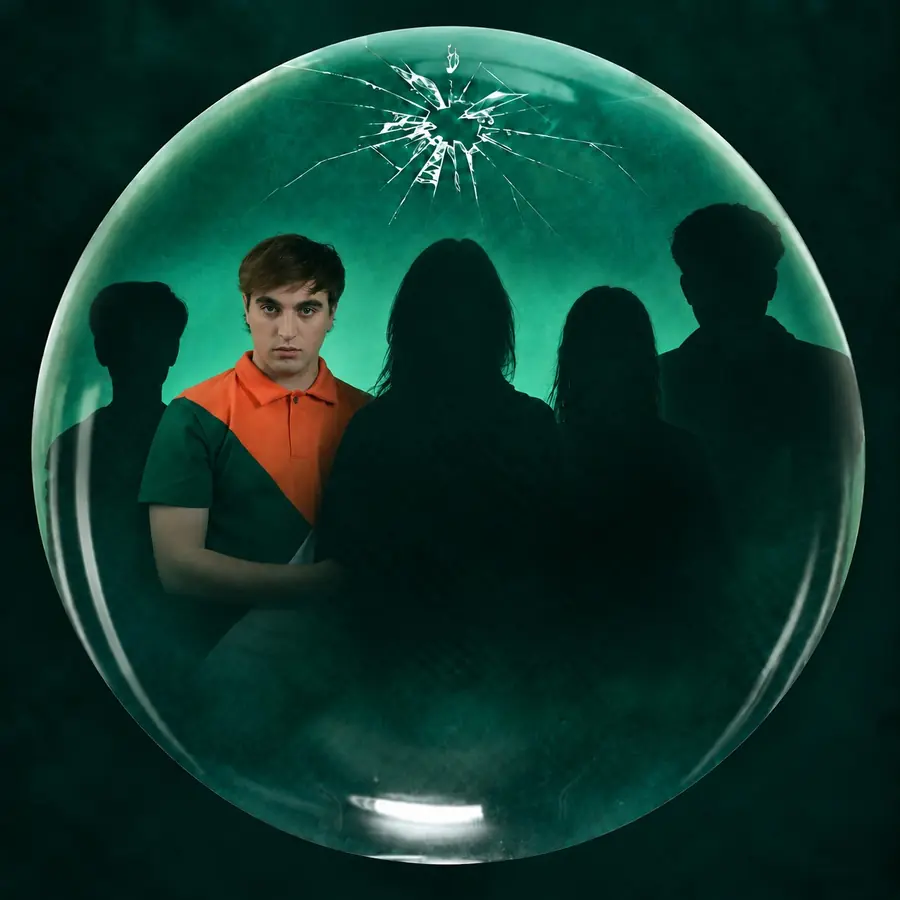
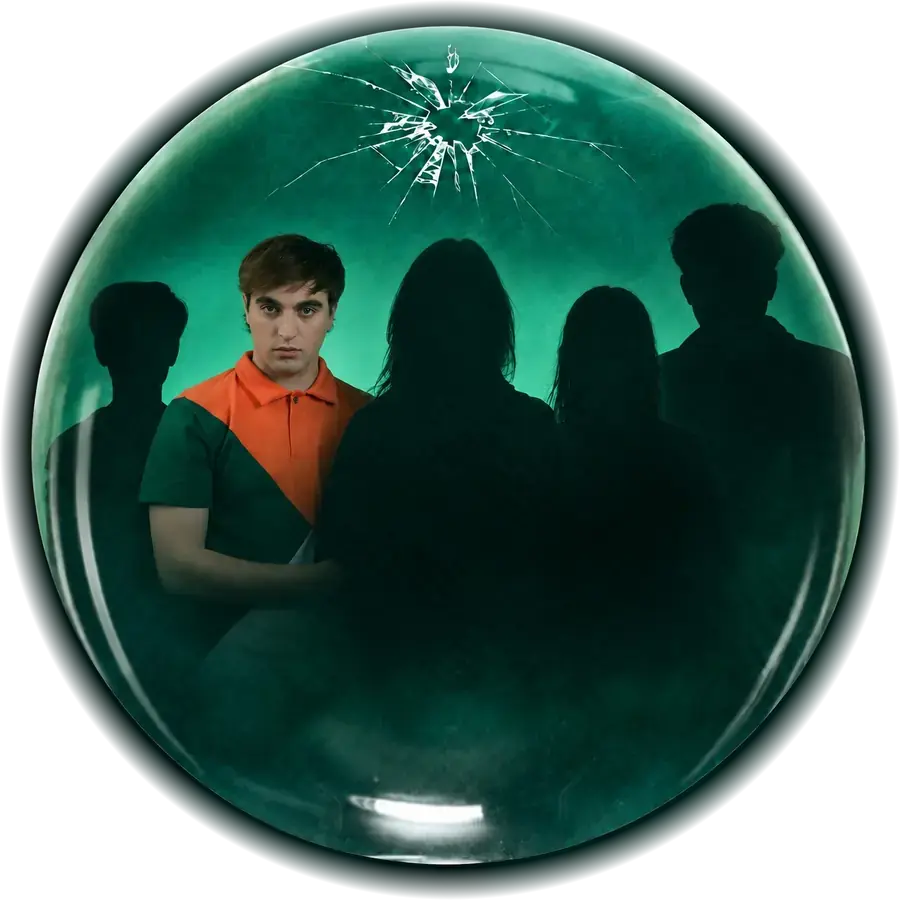
v1.5

diff --git a/estilos.css b/estilos.css
@@ -294,51 +294,60 @@ html:not(.js) .cel .tachado { stroke-dashoffset: 0; }
 .premio p { margin: 0; font-size: 15px; color: var(--tenue); line-height: 1.5; }
 .duracion { margin-top: 18px; font-size: 15px; color: var(--tenue); }
 
-/* ---------- 03 · Elenco ---------- */
-.elenco { display: grid; gap: 54px; }
-.actor { display: grid; grid-template-columns: 46% 1fr; gap: 18px; align-items: end; }
-.actor.der { grid-template-columns: 1fr 46%; }
-.actor.der .marco { order: 2; }
-.actor.der .info { text-align: right; }
-.actor.der .personaje { transform-origin: right bottom; }
-.marco { position: relative; }
-.marco::after {
-  content: ""; position: absolute; inset: 0; translate: 9px 9px; z-index: -1;
-  border: 1px solid var(--coral); opacity: .55;
+/* ---------- Elenco y banda: el foquito ----------
+   El foco cuelga arriba (pegado mientras bajás por la sección) y oscila hacia el que toca.
+   Solo se mueve con rotate (transform): no se repinta. */
+.escena { position: relative; margin: 0 calc(var(--gutter) * -1); --d: min(56vw, 32svh, 290px); --cable: 8svh; }
+.colgante-pista { position: absolute; inset: 0; z-index: 2; pointer-events: none; }
+.colgante { position: sticky; top: 0; height: 100vh; height: 100svh; overflow: hidden; }
+.pendulo { position: absolute; left: 50%; top: -2px; width: 0; height: 0; transform-origin: 0 0; will-change: rotate; }
+.cable { position: absolute; left: -1px; top: 0; width: 2px; height: var(--cable); background: linear-gradient(#0b0f0d, #46564d); }
+.casquillo { position: absolute; left: calc(var(--d) * -.11); top: calc(var(--cable) - 2px); width: calc(var(--d) * .22); height: auto; }
+.foco { position: absolute; left: calc(var(--d) / -2); top: calc(var(--cable) + var(--d) * .2); width: var(--d); height: var(--d); isolation: isolate; }
+/* el borde redondo ya viene en la imagen (alfa): una máscara CSS en algo que gira se recalcula en cada cuadro */
+.foco .capa {
+  position: absolute; inset: 0; width: 100%; height: 100%; opacity: 0; transition: opacity .5s ease;
+  -webkit-touch-callout: none; -webkit-user-select: none; user-select: none; pointer-events: none;
 }
-.actor:nth-child(2n) .marco::after { border-color: var(--teal-claro); translate: -9px 9px; }
-.foto { position: relative; aspect-ratio: 4 / 5; overflow: hidden; background: var(--superficie-2); }
-.foto img { position: absolute; left: 0; top: -8%; width: 100%; height: 116%; object-fit: cover; object-position: 50% 20%; translate: 0 var(--py, 0%); }
-.sin-foto { position: absolute; inset: 0; display: grid; place-items: center; overflow: hidden; }
-.sin-foto .ini { font: italic 800 clamp(80px, 26vw, 140px)/1 var(--display); color: rgba(244, 238, 227, .92); rotate: -8deg; }
-.sin-foto img.fig { position: absolute; right: 12%; bottom: 8%; left: auto; top: auto; width: auto; height: 34%; opacity: .32; translate: none; }
-.actor:nth-child(3n+1) .sin-foto { background: linear-gradient(165deg, #ff8f79, #a8402e); }
-.actor:nth-child(3n+2) .sin-foto { background: linear-gradient(165deg, #0aa38d, #0b3a27); }
-.actor:nth-child(3n+3) .sin-foto { background: linear-gradient(165deg, #d0a65a, #5f4520); }
-.info { padding-bottom: 4px; min-width: 0; }
-.info .n { font: 600 13px/1 var(--display); letter-spacing: .2em; color: var(--teal-claro); }
-.personaje {
-  margin: 10px 0 12px; padding: .08em .14em .02em 0; overflow: hidden;
-  font: italic 800 clamp(40px, 12.6vw, 66px)/.86 var(--display); text-transform: uppercase; color: var(--coral);
-  rotate: -8deg; transform-origin: left bottom; overflow-wrap: anywhere;
+.foco .capa.on { opacity: 1; }
+/* las que no se ven, fuera del dibujo del todo (cuando termina el fundido) */
+.foco .capa:not(.on) { visibility: hidden; transition: opacity .5s ease, visibility 0s linear .5s; }
+.foco .halo { position: absolute; inset: -20%; z-index: -1; background: url("img/luz/halo.png") center / 100% 100% no-repeat; opacity: 1; transition: opacity .35s ease; }
+.foco .cono { position: absolute; left: 50%; top: 88%; width: 150%; height: 150%; translate: -50% 0; z-index: -1; background: url("img/luz/cono.png") center top / 100% 100% no-repeat; opacity: .9; transition: opacity .35s ease; }
+.foco .apagon { position: absolute; inset: 3%; border-radius: 50%; background: rgba(4, 8, 6, .72); opacity: 0; transition: opacity .2s ease; pointer-events: none; }
+.escena.oscuro .apagon { opacity: 1; }
+.escena.oscuro .halo, .escena.oscuro .cono { opacity: 0; }
+.foco .apagon.parpadea { animation: parpadeo .8s linear; }
+@keyframes parpadeo { 0% { opacity: 1; } 12% { opacity: 0; } 22% { opacity: .75; } 32% { opacity: 0; } 46% { opacity: .4; } 58%, 100% { opacity: 0; } }
+.foco .toque {
+  position: absolute; translate: -50% -50%; border: 0; padding: 0; border-radius: 45% 45% 40% 40%;
+  background: transparent; cursor: pointer; pointer-events: auto; touch-action: manipulation;
 }
-.actor.der .personaje { padding: .08em 0 .02em .14em; }
-.personaje span { display: inline-block; }
-.info .nombre { font: 600 18px/1.25 var(--cuerpo); }
-.info .ig { display: inline-block; margin-top: 6px; font-size: 14px; color: var(--tenue); text-decoration: none; }
-.js .actor .foto { clip-path: inset(100% 0 0 0); transition: clip-path 1.25s var(--curva); }
-.js .actor .foto > * { scale: 1.25; transition: scale 1.6s var(--curva); }
-.js .actor .marco::after { opacity: 0; transition: opacity 1s ease .5s; }
-.js .actor .info > * { opacity: 0; transform: translateY(18px); transition: opacity .8s var(--curva), transform .9s var(--curva); }
-.js .actor .info > .personaje { opacity: 1; transform: none; }
-.js .actor .personaje span { transform: translateY(110%); transition: transform 1s var(--curva) .2s; }
-.js .actor .info > :nth-child(3) { transition-delay: .35s; }
-.js .actor .info > :nth-child(4) { transition-delay: .45s; }
-.js .actor.visto .foto { clip-path: inset(0 0 0 0); }
-.js .actor.visto .foto > * { scale: 1; }
-.js .actor.visto .marco::after { opacity: .55; }
-.js .actor.visto .info > * { opacity: 1; transform: none; }
-.js .actor.visto .personaje span { transform: none; }
+.foco .toque:active { background: rgba(255, 230, 170, .12); }
+
+.entradas { position: relative; z-index: 1; padding: 0 var(--gutter); }
+.entrada { min-height: 62vh; min-height: 62svh; display: flex; flex-direction: column; justify-content: flex-end; padding-bottom: 6svh; opacity: .22; transition: opacity .6s ease; cursor: pointer; }
+.entrada.encendida { opacity: 1; cursor: auto; }
+.entrada.pasada { opacity: 0; }
+.entrada.intro { min-height: 92vh; min-height: 92svh; align-items: center; text-align: center; }
+.entrada.izq { align-items: flex-start; text-align: left; padding-right: 10%; }
+.entrada.der { align-items: flex-end; text-align: right; padding-left: 10%; }
+.entradas .cola { height: 30vh; height: 30svh; }
+.pregunta { margin: 0; font: italic 800 clamp(30px, 9vw, 44px)/1 var(--display); text-transform: uppercase; color: #dca56c; rotate: -4deg; }
+.pista-foco { margin: 14px 0 0; font: 600 12px/1 var(--display); letter-spacing: .24em; text-transform: uppercase; color: var(--tenue); }
+.papel { margin: 0 0 12px; font: italic 800 clamp(30px, 9vw, 44px)/.9 var(--display); text-transform: uppercase; color: var(--coral); rotate: -6deg; }
+.entrada.der .papel { transform-origin: right bottom; }
+.pill {
+  display: inline-block; margin: 0; padding: 10px 18px 8px; border-radius: 999px; background: #2bd394; color: #14211b;
+  font: 800 clamp(22px, 6.8vw, 30px)/1 var(--display); text-transform: uppercase; letter-spacing: .02em;
+  box-shadow: 0 10px 24px rgba(0, 0, 0, .35);
+}
+.pill.par { background: #dca56c; }
+.entrada .bio { margin: 14px 0 0; max-width: 34em; color: #cfd8d2; font-size: 15.5px; line-height: 1.55; display: -webkit-box; -webkit-line-clamp: 4; -webkit-box-orient: vertical; overflow: hidden; }
+.entrada.abierta .bio { display: block; -webkit-line-clamp: unset; }
+.entrada .leer { margin-top: 2px; padding: 14px 0; min-height: 44px; border: 0; background: none; cursor: pointer; color: var(--teal-claro); font: 600 14px/1 var(--display); letter-spacing: .14em; text-transform: uppercase; }
+.js .entrada .pill, .js .entrada .papel { transition: transform .7s var(--curva), opacity .5s ease; }
+.js .entrada:not(.encendida) .pill { transform: translateY(8px) scale(.96); }
 
 /* ---------- Canciones ---------- */
 .canciones { list-style: none; margin: 0; padding: 0; counter-reset: c; }
@@ -510,12 +519,6 @@ html:not(.js) .cel .tachado { stroke-dashoffset: 0; }
 /* ---------- Pantallas ---------- */
 @media (max-width: 340px) {
   body { font-size: 16px; }
-  .actor, .actor.der { grid-template-columns: 1fr; }
-  .actor.der .marco { order: 0; }
-  .actor.der .info { text-align: left; }
-  .actor.der .personaje { transform-origin: left bottom; padding: .08em .14em .02em 0; }
-  .marco { width: 78%; }
-  .actor.der .marco { margin-left: auto; }
   .premio { grid-template-columns: 1fr; justify-items: start; }
   .dock-boton { gap: 8px; }
 }
@@ -548,11 +551,6 @@ html:not(.js) .cel .tachado { stroke-dashoffset: 0; }
   .js [data-reveal="lineas"] .l > span { transform: none; opacity: 0; transition: opacity 1s ease calc(var(--i, 0) * 120ms); }
   .js [data-reveal="lineas"].visto .l > span { opacity: 1; }
   .js [data-reveal="sello"] { transform: none; }
-  .js .actor .foto { clip-path: none; opacity: 0; transition: opacity 1s ease; }
-  .js .actor.visto .foto { opacity: 1; }
-  .js .actor .foto > * { scale: none; }
-  .js .actor .info > * { transform: none; }
-  .js .actor .personaje span { transform: none; }
   .js .galeria button { translate: none; }
   .js .foto-obra img { clip-path: none; scale: none; opacity: 0; transition: opacity 1s ease; }
   .js .foto-obra.visto img { opacity: 1; }
@@ -568,4 +566,6 @@ html:not(.js) .cel .tachado { stroke-dashoffset: 0; }
   .menu-lista a { transform: none; }
   .visor[open] .visor-pista { animation: none; }
   .dock-nombre.cambia { animation: none; }
+  .foco .apagon.parpadea { animation: none; }
+  .js .entrada:not(.encendida) .pill { transform: none; }
 }

diff --git a/programa.js b/programa.js
@@ -2,7 +2,7 @@
 // La versión se publica con herramientas/publicar.js, que la copia a los ?v= de index.html.
 (function () {
   "use strict";
-  const VERSION = "1.4";
+  const VERSION = "1.5";
   const D = window.MEMC;
   const $ = (s, el = document) => el.querySelector(s);
   const $$ = (s, el = document) => [...el.querySelectorAll(s)];
@@ -68,34 +68,55 @@
     `, cintas("a"));
   }
 
-  // 03 · Elenco
-  {
-    const elenco = (D.elenco || []).filter((p) => p.nombre || borrador);
-    if (elenco.length) {
-      const ig = (u) => {
-        if (!u) return "";
-        const h = u.replace(/^@/, "").replace(/^https?:\/\/(www\.)?instagram\.com\//, "").replace(/\/.*$/, "");
-        return `<a class="ig" href="https://www.instagram.com/${esc(h)}/" target="_blank" rel="noopener">@${esc(h)}</a>`;
-      };
-      agregar("elenco", "Elenco", "oro", `
-        ${kicker("En escena")}
-        ${titulo(["El", "elenco"])}
-        <div class="elenco">${elenco.map((p, i) => `
-          <article class="actor${i % 2 ? " der" : ""}" data-reveal="actor">
-            <div class="marco"><div class="foto">${p.foto
-              ? `<img src="${esc(p.foto)}" alt="${esc(p.nombre ? p.nombre + " como " + p.personaje : p.personaje)}" loading="lazy" decoding="async">`
-              : `<div class="sin-foto" aria-hidden="true"><span class="ini">${esc(p.personaje[0])}</span><img class="fig" src="img/figura-blanca.webp" alt=""></div>`}
-            </div></div>
-            <div class="info">
-              <span class="n">${String(i + 1).padStart(2, "0")}</span>
-              <h3 class="personaje"><span>${esc(p.personaje)}</span></h3>
-              <div class="nombre">${p.nombre ? esc(p.nombre) : PEND}</div>
-              ${ig(p.instagram)}
-            </div>
-          </article>`).join("")}
-        </div>
-      `);
-    }
+  // Elenco y banda: un foquito de vidrio cuelga arriba y, a medida que bajás, oscila hacia el que toca,
+  // se apaga en el viaje y se enciende sobre esa persona. Tocar una silueta dentro del foco también la enciende.
+  // Caras dentro de cada imagen del foco (x, y, lado en px sobre 1254): zonas para tocar.
+  const CARAS = { diego: [322, 370, 159], rita: [551, 360, 153], clara: [768, 430, 135], german: [904, 348, 150], alicia: [133, 418, 122],
+    matias: [500, 540, 125], pablo: [372, 331, 123], fran: [545, 312, 120], tobias: [688, 585, 118], gonzalo: [729, 302, 107] };
+  const CASQUILLO = `<svg class="casquillo" viewBox="0 0 60 70" aria-hidden="true">
+      <defs><linearGradient id="laton" x1="0" x2="1"><stop offset="0" stop-color="#7a5a2c"/><stop offset=".35" stop-color="#e6c88c"/><stop offset=".6" stop-color="#b8915a"/><stop offset="1" stop-color="#5e431f"/></linearGradient></defs>
+      <rect x="22" y="0" width="16" height="10" rx="3" fill="#1c2420"/>
+      <rect x="12" y="8" width="36" height="46" rx="5" fill="url(#laton)"/>
+      <path d="M12 18h36M12 27h36M12 36h36M12 45h36" stroke="#5e431f" stroke-width="2.2" opacity=".55"/>
+      <path d="M14 54h32l-5 12H19z" fill="#2a2f2b"/>
+    </svg>`;
+  function escena(id, gente, intro, vacia) {
+    const capas = `<img class="capa on" data-i="-1" src="${vacia}" alt="">` + gente.map((p, i) =>
+      `<img class="capa" data-i="${i}" src="img/burbujas/${esc(p.foco)}.webp" alt="" decoding="async">`).join("");
+    const toques = gente.map((p, i) => {
+      const c = CARAS[p.foco]; if (!c) return "";
+      const cx = (c[0] + c[2] / 2) / 12.54, cy = (c[1] + c[2] * 0.9) / 12.54, w = c[2] * 1.5 / 12.54;
+      return `<button class="toque" type="button" data-i="${i}" style="left:${cx.toFixed(1)}%;top:${cy.toFixed(1)}%;width:${w.toFixed(1)}%;height:${(w * 1.7).toFixed(1)}%" aria-label="Encender a ${esc(p.nombre)}"></button>`;
+    }).join("");
+    return `<div class="escena" data-escena="${id}">
+      <div class="colgante-pista"><div class="colgante"><div class="pendulo">
+        <span class="cable"></span>${CASQUILLO}
+        <div class="foco"><span class="halo"></span><span class="cono"></span>${capas}<span class="apagon"></span>${toques}</div>
+      </div></div></div>
+      <div class="entradas">
+        <div class="entrada intro" data-i="-1"><p class="pregunta">${esc(intro)}</p><p class="pista-foco">Tocá una silueta o seguí bajando</p></div>
+        ${gente.map((p, i) => `<article class="entrada ${i % 2 ? "der" : "izq"}" data-i="${i}">
+          <p class="papel">${esc(p.personaje || p.rol)}</p>
+          <h3 class="pill${i % 2 ? " par" : ""}">${esc(p.nombre)}</h3>
+          ${p.bio ? `<p class="bio">${esc(p.bio)}</p><button class="leer" type="button">Leer más</button>` : ""}
+        </article>`).join("")}
+        <div class="cola"></div>
+      </div>
+    </div>`;
+  }
+  if (D.elenco && D.elenco.length) {
+    agregar("elenco", "Elenco", "oro", `
+      ${kicker("En escena")}
+      ${titulo(["El", "elenco"])}
+      ${escena("elenco", D.elenco, D.elencoIntro || "", "img/burbujas/elenco-vacia.webp")}
+    `);
+  }
+  if (D.banda && D.banda.length) {
+    agregar("banda", "Banda", "teal", `
+      ${kicker("En vivo")}
+      ${titulo(["La", "banda"])}
+      ${escena("banda", D.banda, D.bandaIntro || "", "img/burbujas/banda-vacia.webp")}
+    `);
   }
 
   // Canciones
@@ -292,7 +313,65 @@
   const raiz = document.documentElement;
   const portada = $("#portada");
   const parrafos = $$(".lectura p").map((p) => ({ el: p, w: $$(".w", p), n: -1 }));
-  const fotosActor = $$(".actor .foto img, .foto-obra img");
+  const fotosActor = $$(".foto-obra img");
+
+  // ---------- Foquito del elenco y la banda ----------
+  const escenas = $$(".escena").map((el) => ({
+    el, pend: $(".pendulo", el), capas: $$(".capa", el), entradas: $$(".entrada", el), apagon: $(".apagon", el),
+    ang: 0, vel: 0, lit: undefined,
+  }));
+  const ANG = 16; // grados a cada lado
+  const lado = (en) => (en.classList.contains("izq") ? 1 : en.classList.contains("der") ? -1 : 0);
+  const suave = (x) => x * x * (3 - 2 * x);
+  function encender(e, j) {
+    if (e.lit === j) return;
+    e.lit = j;
+    e.entradas.forEach((en, k) => en.classList.toggle("encendida", k === j));
+    if (j === null) { e.el.classList.add("oscuro"); return; }
+    const i = +e.entradas[j].dataset.i;
+    e.capas.forEach((c) => c.classList.toggle("on", +c.dataset.i === i));
+    e.el.classList.remove("oscuro");
+    if (!quieto) { e.apagon.classList.remove("parpadea"); void e.apagon.offsetWidth; e.apagon.classList.add("parpadea"); }
+  }
+  // devuelve true si el péndulo sigue en movimiento
+  function moverEscenas(vh, f) {
+    let mueve = false;
+    const linea = vh * 0.66;
+    escenas.forEach((e) => {
+      const r = e.el.getBoundingClientRect();
+      if (r.bottom < -vh * 0.2 || r.top > vh * 1.2) return;
+      // la referencia es el nombre (o la pregunta), no la caja entera
+      const cs = e.entradas.map((en) => { const b = ($(".pill, .pregunta", en) || en).getBoundingClientRect(); return b.top + b.height / 2; });
+      let j = 0;
+      while (j < cs.length - 2 && cs[j + 1] < linea) j++;
+      const t = clamp((linea - cs[j]) / (cs[j + 1] - cs[j]));
+      encender(e, t < 0.38 ? j : t > 0.62 ? j + 1 : null);
+      // lo que ya pasó por arriba se apaga del todo (si no, asoma alrededor del foco)
+      e.entradas.forEach((en, k) => en.classList.toggle("pasada", cs[k] < linea - vh * 0.2));
+      const meta = quieto ? 0 : ANG * (lado(e.entradas[j]) + (lado(e.entradas[j + 1]) - lado(e.entradas[j])) * suave(t));
+      // resorte con un poco de rebote: se siente como algo que cuelga
+      e.vel += (meta - e.ang) * 0.06 * f;
+      e.vel *= Math.pow(0.8, f);
+      e.ang += e.vel * f;
+      if (quieto) { e.ang = 0; e.vel = 0; }
+      e.pend.style.rotate = e.ang.toFixed(2) + "deg";
+      if (Math.abs(e.vel) > 0.02 || Math.abs(meta - e.ang) > 0.05) mueve = true;
+    });
+    return mueve;
+  }
+  escenas.forEach((e) => {
+    const ir = (k) => {
+      const en = e.entradas.find((x) => +x.dataset.i === k); if (!en) return;
+      const b = ($(".pill, .pregunta", en) || en).getBoundingClientRect();
+      window.scrollTo({ top: window.scrollY + b.top + b.height / 2 - innerHeight * 0.66, behavior: quieto ? "auto" : "smooth" });
+    };
+    $$(".toque", e.el).forEach((t) => t.addEventListener("click", () => ir(+t.dataset.i)));
+    e.entradas.forEach((en) => {
+      en.addEventListener("click", (ev) => { if (!ev.target.closest(".leer") && !en.classList.contains("encendida")) ir(+en.dataset.i); });
+      const l = $(".leer", en);
+      if (l) l.addEventListener("click", () => { en.classList.toggle("abierta"); l.textContent = en.classList.contains("abierta") ? "Leer menos" : "Leer más"; });
+    });
+  });
   const cintasEls = $$(".cinta").map((c) => ({ el: c, r: $(".rodillo", c), dir: +c.dataset.dir, x: 0, ancho: 0, visible: false }));
   let ultimoY = window.scrollY;
   let velocidad = 0;
@@ -373,7 +452,8 @@
       });
     }
 
-    const siguen = (!quieto && cintasEls.some((c) => c.visible)) || Math.abs(velocidad) > 0.2;
+    const pendulo = moverEscenas(vh, f);
+    const siguen = (!quieto && cintasEls.some((c) => c.visible)) || Math.abs(velocidad) > 0.2 || pendulo;
     if (siguen) requestAnimationFrame(cuadro); else { corriendo = false; ultimoT = 0; }
   }
   function arrancar() {

diff --git a/contenido.js b/contenido.js
@@ -4,7 +4,7 @@
 // Antes de la función, pasarlo a false: lo pendiente desaparece.
 
 window.MEMC = {
-  borrador: true,
+  borrador: false,
 
   obra: {
     titulo: "Mamá está más chiquita",
@@ -41,17 +41,36 @@ window.MEMC = {
     dato: "Escrita por los argentinos Ignacio Olivera y Juan Pablo Schapira, se presentó en Argentina, Chile, Perú, Panamá y República Dominicana.",
   },
 
-  // foto: ruta dentro de img/elenco/ (ej. "img/elenco/rita.webp"), idealmente vertical.
-  // Sin foto, muestra la inicial del personaje.
-  // Las fotos salen de las publicitarias (Drive "Audiovisuales MEMC"); qué actor hace cada personaje se dedujo
-  // por el vestuario: confirmarlo cuando pasen los nombres.
+  // Elenco y banda en el orden del video de presentación. "foco" es la imagen del foquito con esa persona encendida
+  // (img/burbujas/<foco>.webp). Las biografías salen del video; el "rol" de la banda se dedujo de cada biografía.
   elenco: [
-    { personaje: "Rita", nombre: "", foto: "img/elenco/rita.webp", instagram: "" },
-    { personaje: "Diego", nombre: "", foto: "img/elenco/diego.webp", instagram: "" },
-    { personaje: "Clara", nombre: "", foto: "img/elenco/clara.webp", instagram: "" },
-    { personaje: "Germán", nombre: "", foto: "img/elenco/german.webp", instagram: "" },
-    { personaje: "Alicia", nombre: "", foto: "img/elenco/alicia.webp", instagram: "" },
+    { personaje: "Diego", nombre: "Bruno Maretto", foco: "diego",
+      bio: "Es actor, director y profesor teatral. Comenzó su formación a los 10 años, principalmente en el CCI María Castaña. Actualmente es profesor de Teatro por la Universidad Nacional de Córdoba y se encuentra en el tramo final de la Licenciatura. Trabajó con Pepe Cibrián Campoy en Dorothy y recorrió escenarios como el Teatro Real, la Sala de las Américas, la Ciudad de las Artes, el Teatro Comedia y el Teatro Verdi. Participó en más de 40 obras del circuito teatral cordobés." },
+    { personaje: "Rita", nombre: "Gioia Falco", foco: "rita",
+      bio: "Técnica Productora en Medios Audiovisuales (UNC) y Técnica Instrumentista Musical en Canto Lírico (UPC), de registro mezzosoprano. Cuenta con una destacada trayectoria como actriz y cantante lírica. Protagonizó Dorothy, un mágico musical, y participó en Drácula, ambas producciones de Pepe Cibrián Campoy. También compartió escenario con Víctor Laplace en La pasión de Don Juan. Desde 2004 integra el Coro Polifónico de la Provincia de Córdoba, participando en numerosas óperas y producciones sinfónico-corales, también como solista." },
+    { personaje: "Clara", nombre: "Loreley de Barberín", foco: "clara",
+      bio: "Es intérprete de teatro musical. Entre sus trabajos más destacados están el protagónico de Wendy, la aventura de crecer, con presentaciones en Córdoba y distintas localidades de la provincia, y su participación en el ensamble de bailarines de El principio del fin, que llegó al Quality de Córdoba y al Teatro Broadway de Buenos Aires. También formó parte de Camino Amarillo, una producción teatral infantil en Catamarca. Continúa sumando experiencias en el teatro musical, formando parte de nuevas propuestas escénicas." },
+    { personaje: "Germán", nombre: "Joel Aguirre", foco: "german",
+      bio: "Es profesor de teatro e intérprete vocal y actoral, con formación en actuación frente a cámara. Participó en obras como Mamá está más chiquita, El principito, Las D'enfrente, Saverio el Cruel, High School Musical y El Club de las Bataclanas, entre otras. Musicalmente trabajó como solista vocal y en distintas bandas, en carnavales, bares, festivales y cumpleaños. En 2022 participó en la Performer Cup Argentina P.A.S.S., el campeonato argentino de artes escénicas, donde ganó las nacionales en las categorías \"artista completo\" e \"intérprete vocal\"." },
+    { personaje: "Alicia", nombre: "Sonia Daniel", foco: "alicia",
+      bio: "Actriz, dramaturga, directora, docente y gestora cultural, con más de 40 años de trayectoria en el teatro. En 1995 fundó, junto a Leo Rey, el Centro Cultural Independiente María Castaña, espacio emblemático del teatro cordobés que continúa dirigiendo. Sus obras se estrenaron y publicaron en Argentina, Latinoamérica y Europa, y recibió numerosos premios y reconocimientos, entre ellos el Jerónimo de la Gente. Desde 1990 se dedica también a la formación teatral y es impulsora y directora del Festival Regional de Teatro Adolescente Vamos que Venimos – Córdoba." },
   ],
+  elencoIntro: "¿Conocés quiénes están en escena?",
+
+  banda: [
+    { rol: "Arreglos y composición", nombre: "Matías Ardiles", foco: "matias",
+      bio: "Es músico, compositor, arreglador y productor musical. Inició su recorrido musical en 2010 y desde 2015 se dedica a la composición, explorando distintos lenguajes y géneros de la música popular. Se formó en la Universidad Nacional de Villa María y en La Colmena Escuela de Música, donde está terminando su tesis de composición. Participó como músico, compositor y arreglador en proyectos de Córdoba como Mister Pippa, La Garetto y Orenda Kilig, además de trabajar como músico sesionista y docente particular." },
+    { rol: "Piano y guitarra", nombre: "Tobías Sarmiento", foco: "tobias",
+      bio: "Es pianista, guitarrista, docente y arreglador. Inició su formación en el Conservatorio Provincial Félix T. Garzón y continuó en el Profesorado en Educación Musical de la Facultad de Artes de la UNC. Como docente desarrolla experiencias musicales con infancias y adolescencias en talleres, instituciones y orquestas populares. Integra El Rejunte Cordobés, conjunto de raíz folclórica con presentaciones en peñas y festivales de Córdoba, Alta Gracia y Cosquín." },
+    { rol: "Violonchelo", nombre: "Gonzalo Di Giusto", foco: "gonzalo",
+      bio: "Es violonchelista cordobés. Empezó sus estudios en 2016 en la Universidad Nacional de Córdoba, con Cristian Montes; después se perfeccionó con Stanimir Todorov y hoy continúa con Marcelo Montes. Entre 2017 y 2020 integró la Orquesta Juvenil del Teatro del Libertador General San Martín y en 2023 se sumó a la Orquesta Filarmónica de Córdoba. Participó del festival Gramado en Concierto (Brasil) y del Festival Latinoamericano de Cellos (Buenos Aires). Forma parte de la Filarmónica y del Ensamble Foco." },
+    { rol: "Batería", nombre: "Fran Layús", foco: "fran",
+      bio: "Es músico, baterista y profesor de batería. Formó parte de proyectos como Poder Vivo (tributo a Rata Blanca), Diego Giannini (cantante de cuarteto) y Philharmonie Ensamble, entre otros. Tocó en escenarios importantes de Córdoba como Studio Theater, Ex Sala Formosa y Club Paraguay. Está cursando el segundo año de la Licenciatura en Composición Musical en la UNC." },
+    { rol: "Guitarra", nombre: "Pablo Guzmán", foco: "pablo",
+      bio: "Es músico, guitarrista, compositor y profesor. Se recibió de técnico instrumental en guitarra clásica en la E.S.P.E.A. N.º 1 de Santiago del Estero. Formó parte de proyectos como El tercer Guzmán y Sueño artificial, y participó en los Juegos Evita como guitarrista con su ensamble. Hizo arreglos para la empresa Cinema Sonum y compuso música para cortometrajes y distintos ensambles. Está cursando el último año de la Licenciatura en Composición Musical en la UNC." },
+  ],
+  bandaIntro: "La música, en vivo",
+
 
   // Números musicales, en orden: "Título" o { titulo: "…", quien: "Rita y Diego" }.
   // Si queda vacío, la sección no aparece.

diff --git a/index.html b/index.html
@@ -20,8 +20,8 @@
 <link rel="apple-touch-icon" href="img/favicon.png">
 <link rel="preload" href="fuentes/barlowcondensed-800i-latin.woff2" as="font" type="font/woff2" crossorigin>
 <link rel="preload" href="fuentes/barlow-400-latin.woff2" as="font" type="font/woff2" crossorigin>
-<link rel="stylesheet" href="fuentes/fuentes.css?v=1.4">
-<link rel="stylesheet" href="estilos.css?v=1.4">
+<link rel="stylesheet" href="fuentes/fuentes.css?v=1.5">
+<link rel="stylesheet" href="estilos.css?v=1.5">
 <script>document.documentElement.classList.add("js");</script>
 </head>
 <body>
@@ -83,7 +83,7 @@
   </div>
 </dialog>
 
-<script src="contenido.js?v=1.4"></script>
-<script src="programa.js?v=1.4"></script>
+<script src="contenido.js?v=1.5"></script>
+<script src="programa.js?v=1.5"></script>
 </body>
 </html>
